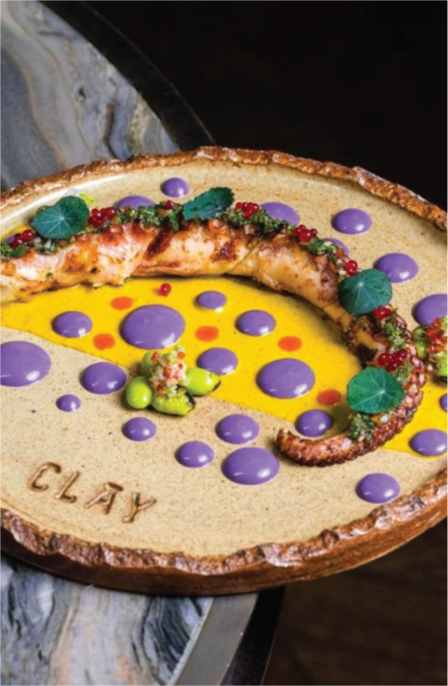
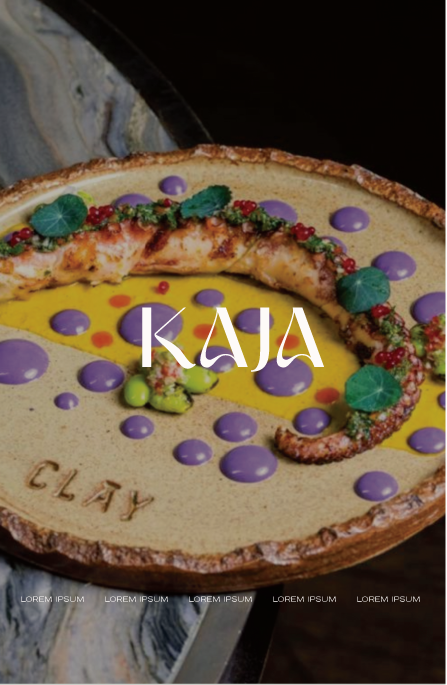
home footer updated

diff --git a/src/pages/home/HomeChefSection.tsx b/src/pages/home/HomeChefSection.tsx
@@ -1,7 +1,101 @@
+import { Link } from "react-router-dom";
+import { motion, useMotionValue, useSpring, useInView } from "framer-motion";
+import { useEffect, useRef, useState } from "react";
+
 function HomeChefSection() {
+  const containerRef = useRef<HTMLDivElement | null>(null);
+  const [isDesktop, setIsDesktop] = useState(false);
+
+  useEffect(() => {
+    const mq = window.matchMedia("(min-width: 768px)");
+    const update = () => setIsDesktop(mq.matches);
+    update();
+    mq.addEventListener("change", update);
+    return () => mq.removeEventListener("change", update);
+  }, []);
+
+  const isInView = useInView(containerRef, {
+    amount: 0.6,
+  });
+
+  const x = useMotionValue(0);
+  const springX = useSpring(x, { stiffness: 100, damping: 18 });
+
+  useEffect(() => {
+    if (!isDesktop) {
+      x.set(0);
+      return;
+    }
+
+    const handleMouseMove = (e: MouseEvent) => {
+      if (!containerRef.current) return;
+
+      // Mouse relative to viewport (not container)
+      const center = window.innerWidth / 2;
+
+      // Distance from center of screen
+      const delta = e.clientX - center;
+
+      // Stronger movement range
+      const maxMove = window.innerWidth / 2;
+
+      // Normalize (-1 to 1)
+      const normalized = delta / maxMove;
+
+      // Apply only when in view
+      if (isInView) {
+        x.set(normalized * maxMove);
+      }
+    };
+
+    window.addEventListener("mousemove", handleMouseMove);
+
+    return () => {
+      window.removeEventListener("mousemove", handleMouseMove);
+    };
+  }, [isInView, isDesktop, x]);
+
+  // Reset to center when not in view
+  useEffect(() => {
+    if (!isInView) {
+      x.set(0);
+    }
+  }, [isInView, x]);
+
   return (
-    <div>
-      <h1></h1>
+    <div
+      ref={containerRef}
+      className="relative mx-auto mb-10 flex w-full max-w-[1400px] flex-col items-center overflow-x-hidden px-4 sm:px-6"
+    >
+      <motion.h1
+        initial={{ opacity: 0, x: -100 }}
+        whileInView={{ opacity: 1, x: 0 }}
+        transition={{ duration: 0.8 }}
+        viewport={{ once: false, amount: 0.5 }}
+        className="max-w-full px-1 py-6 text-center font-moche text-[clamp(2rem,10vw,6.84rem)] leading-[0.95] md:py-10 md:text-[109.5px] md:leading-none"
+      >
+        Meet our Dynamic Chef
+      </motion.h1>
+
+      <motion.div
+        style={{ x: isDesktop ? springX : 0 }}
+        initial={{ x: 100, opacity: 0 }}
+        whileInView={{ x: 0, opacity: 1 }}
+        exit={{ x: -100, opacity: 0 }}
+        transition={{ duration: 0.8, ease: "easeOut" }}
+        viewport={{ once: false, amount: 0.6 }}
+        className="relative z-10 flex max-h-[min(504px,70vh)] w-full max-w-[min(336px,100%)] flex-col items-center justify-center gap-4 border md:z-50"
+      >
+        <img
+          src="/png/chef.png"
+          alt="chef"
+          className="h-auto w-full max-w-[336px] object-contain"
+        />
+
+        <Link to="/stories" className="base-text py-4">
+          Discover Story
+        </Link>
+      </motion.div>
     </div>
   );
 }

diff --git a/src/pages/home/HomeFooter.tsx b/src/pages/home/HomeFooter.tsx
@@ -1,0 +1,100 @@
+import React from "react";
+import { motion } from "framer-motion";
+
+const HomeFooterSection: React.FC = () => {
+  const kajaImages = [
+    "/png/k-dark.png",
+    "/png/a-dark.png",
+    "/png/j-dark.png",
+    "/png/a-dark.png",
+  ];
+
+  return (
+    <div className="max-w-[1400px] mx-auto flex flex-col justify-between py-10">
+      <motion.div
+        initial={{ opacity: 0 }}
+        whileInView={{ opacity: 1 }}
+        transition={{ duration: 1 }}
+        viewport={{ once: false, amount: 0.3 }}
+      >
+        <div className="w-full grid md:grid-cols-2 lg:grid-cols-4 justify-items-center items-start p-10 pt-8 gap-8">
+          {[
+            {
+              title: "Contact",
+              lines: ["+00 123 456 7890", "support@kaja.com"],
+            },
+            {
+              title: "Location",
+              lines: ["Ubud, Bali"],
+            },
+            {
+              title: "Follow",
+              lines: ["Facebook", "Instagram", "TikTok"],
+            },
+            {
+              title: "Language",
+              lines: ["English", "Italian"],
+            },
+          ].map((section, i) => (
+            <div key={i} className="base-text space-y-2">
+              <p>{section.title}</p>
+              {section.lines.map((line, idx) => (
+                <p key={idx}>{line}</p>
+              ))}
+            </div>
+          ))}
+        </div>
+      </motion.div>
+
+      <motion.div
+        className="w-full px-4"
+        initial="hidden"
+        whileInView="visible"
+        viewport={{ once: false, amount: 0.4 }}
+      >
+        <motion.div className="flex w-full items-center justify-between gap-2 md:gap-6">
+          {kajaImages.map((src, index) => (
+            <motion.img
+              key={index}
+              src={src}
+              alt={`kaja-${index}`}
+              className="h-[120px] w-full flex-1 object-contain md:h-[220px]"
+              variants={{
+                hidden: { x: 200, opacity: 0 },
+                visible: {
+                  x: 0,
+                  opacity: 1,
+                  transition: {
+                    duration: 0.6,
+                    ease: "easeOut",
+                    delay: index * 0.1,
+                  },
+                },
+                exit: {
+                  x: -200,
+                  opacity: 0,
+                  transition: {
+                    duration: 0.4,
+                  },
+                },
+              }}
+            />
+          ))}
+        </motion.div>
+      </motion.div>
+
+      <motion.div
+        className="w-full p-10 pb-6 flex flex-col md:flex-row  justify-between text-base opacity-80"
+        initial={{ opacity: 0 }}
+        whileInView={{ opacity: 0.8 }}
+        transition={{ duration: 1 }}
+        viewport={{ once: false, amount: 0.3 }}
+      >
+        <p>Copyright © 2026</p>
+        <p>Design by @arqenstudio</p>
+      </motion.div>
+    </div>
+  );
+};
+
+export default HomeFooterSection;

diff --git a/src/pages/home/IntroSection.tsx b/src/pages/home/IntroSection.tsx
@@ -17,12 +17,10 @@ const IntroSection = () => {
   const textX = useTransform(scrollYProgress, [0, 0.4], [-100, 0]);
   const textOpacity = useTransform(scrollYProgress, [0, 0.3], [0, 1]);
   const textExitY = useTransform(scrollYProgress, [0.7, 1], [0, -80]);
-  // const textExitOpacity = useTransform(scrollYProgress, [0.7, 1], [1, 0]);
 
   const rightX = useTransform(scrollYProgress, [0, 0.4], [100, 0]);
   const rightOpacity = useTransform(scrollYProgress, [0, 0.3], [0, 1]);
   const rightExitY = useTransform(scrollYProgress, [0.7, 1], [0, -80]);
-  // const rightExitOpacity = useTransform(scrollYProgress, [0.7, 1], [1, 0]);
 
   const handleReservation = () => {
     setIsExpanding(true);
@@ -36,7 +34,7 @@ const IntroSection = () => {
     <motion.section
       ref={ref}
       style={{ backgroundColor: bgColor }}
-      className="py-24 relative overflow-hidden"
+      className="pt-24 relative overflow-hidden"
     >
       <div className="mx-auto flex flex-col md:flex-row max-w-5xl items-center md:items-start justify-center gap-12 px-6">
         <motion.p

diff --git a/src/pages/home/HeroSection.tsx b/src/pages/home/HeroSection.tsx
@@ -5,7 +5,7 @@ const HeroSection = () => {
   const ref = useRef(null);
   const [vh, setVh] = useState(() =>
     typeof window !== "undefined"
-      ? window.visualViewport?.height ?? window.innerHeight
+      ? (window.visualViewport?.height ?? window.innerHeight)
       : 0,
   );
 
@@ -40,8 +40,8 @@ const HeroSection = () => {
   const imageOpacity = useTransform(scrollYProgress, [0.6, 1], [1, 0]);
 
   return (
-    <section ref={ref} className="mt-10 min-h-[200svh] overflow-x-hidden">
-      <div className="sticky top-0 flex min-h-[100svh] items-center overflow-x-hidden">
+    <section ref={ref} className="mt-10 overflow-x-hidden">
+      <div className="sticky top-0 flex items-center overflow-x-hidden">
         <div className="mx-auto w-full max-w-6xl px-4">
           <motion.h1
             style={{ y: textY, opacity: textOpacity }}
@@ -85,6 +85,7 @@ const HeroSection = () => {
           </div>
         </div>
       </div>
+      {/* <IntroSection/> */}
     </section>
   );
 };

diff --git a/src/pages/home/Home.tsx b/src/pages/home/Home.tsx
@@ -1,6 +1,7 @@
 import HeroSection from "./HeroSection";
 import HomeAboutSection from "./HomeAboutSection";
 import HomeChefSection from "./HomeChefSection";
+import HomeFooterSection from "./HomeFooter";
 import HomeMenuSection from "./HomeMenuSection";
 import IntroSection from "./IntroSection";
 
@@ -8,12 +9,12 @@ function Home() {
   return (
     <>
       <HeroSection />
-      <section className="relative z-10 mt-[-35px] mb-10">
-        <IntroSection />
-      </section>
+
+      <IntroSection />
       <HomeAboutSection />
       <HomeMenuSection />
-      <HomeChefSection/>
+      <HomeChefSection />
+      <HomeFooterSection />
     </>
   );
 }
